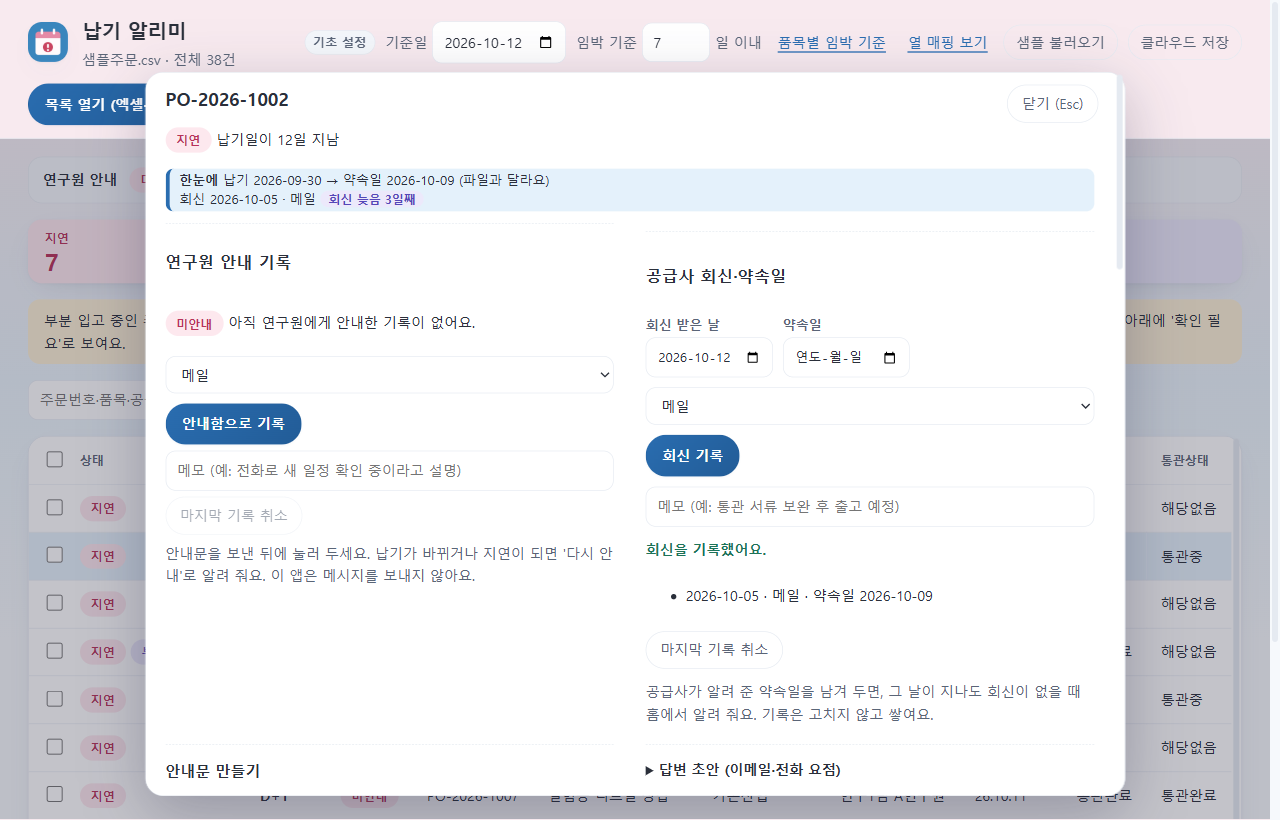
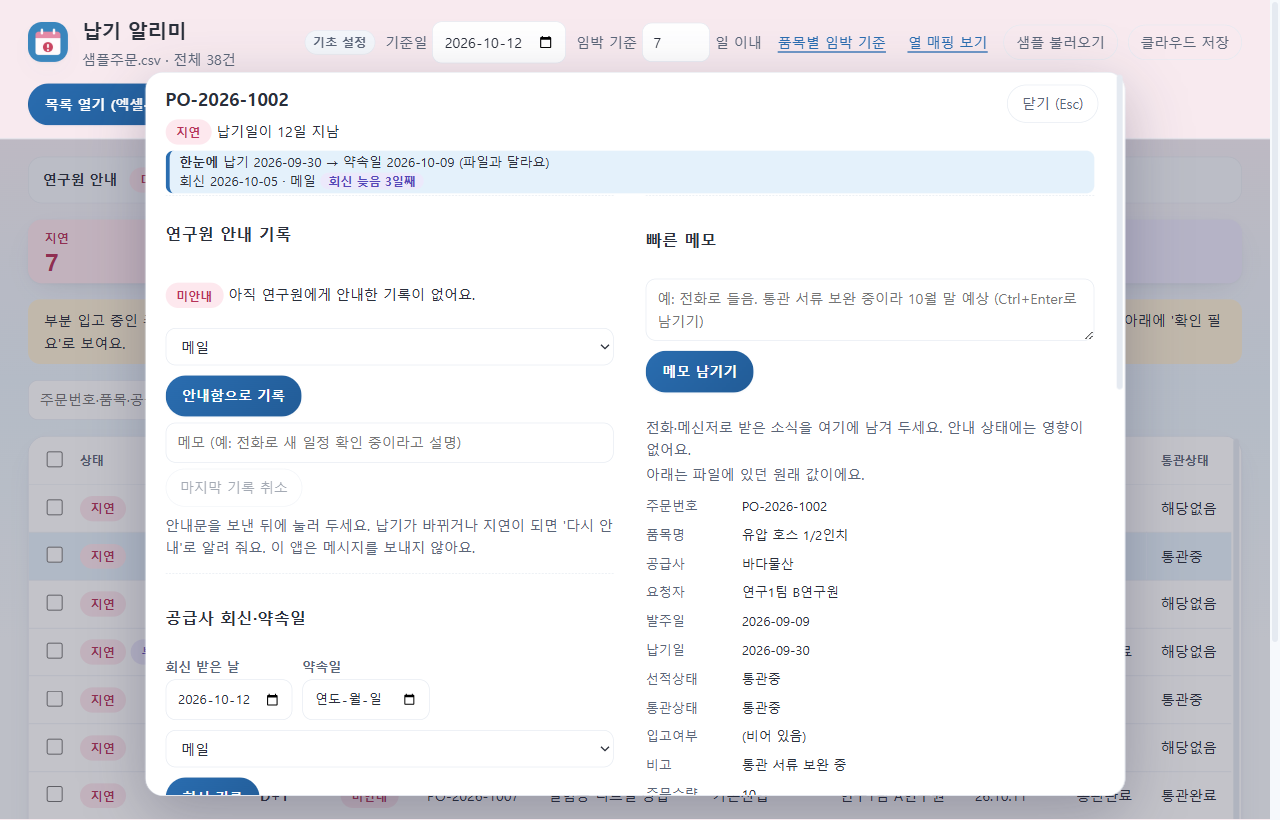
fix: 상세 창을 두 칸(할 일 / 기록·참고)으로 정리해 빈 구멍을 없앤다
처음 2열 배치는 칸이 가로로만 채워져 한쪽에 빈 공간과 줄 어긋남이 생겼다.
칸마다 위에서 아래로 쌓고, 버전을 0.7.2로 올린다(로컬 빌드만, 릴리스 전).

diff --git a/renderer/style.css b/renderer/style.css
@@ -315,8 +315,10 @@ th.sortable:hover { color: var(--accent); }
 .split:not(.has-detail) .detail { display: none; }
 .split.has-detail { grid-template-columns: minmax(0, 1fr); }
 .split.has-detail::after { content: ""; position: fixed; inset: 0; background: rgba(40, 40, 60, .28); pointer-events: none; z-index: 20; }
-.split.has-detail .detail { position: fixed; top: 72px; left: 50%; transform: translateX(-50%); width: min(980px, calc(100vw - 32px)); max-height: calc(100vh - 96px); z-index: 30; display: grid; grid-template-columns: minmax(0, 1fr) minmax(0, 1fr); gap: 4px 32px; align-content: start; box-shadow: 0 18px 60px rgba(30, 30, 60, .28); }
-.split.has-detail .detail > h2, .split.has-detail .detail > p, .split.has-detail .detail > .glance, .split.has-detail .detail > dl, .split.has-detail .detail > span { grid-column: 1 / -1; }
-.split.has-detail .detail > .informbox, .split.has-detail .detail > .replybox { align-self: start; }
+.split.has-detail .detail { position: fixed; top: 72px; left: 50%; transform: translateX(-50%); width: min(980px, calc(100vw - 32px)); max-height: calc(100vh - 96px); z-index: 30; box-shadow: 0 18px 60px rgba(30, 30, 60, .28); }
+.detailcols { display: block; }
+.split.has-detail .detailcols { display: grid; grid-template-columns: minmax(0, 1fr) minmax(0, 1fr); gap: 0 32px; align-items: start; }
+.split.has-detail .dcol { min-width: 0; display: flex; flex-direction: column; }
+.split.has-detail .dcol > :first-child { margin-top: 0; }
 .split.has-detail .detail .backtolist { position: absolute; top: 12px; right: 16px; display: block; }
-@media (max-width: 700px) { .split.has-detail .detail { grid-template-columns: minmax(0, 1fr); top: 8px; max-height: calc(100vh - 16px); } }
+@media (max-width: 700px) { .split.has-detail .detail { top: 8px; max-height: calc(100vh - 16px); } .split.has-detail .detailcols { grid-template-columns: minmax(0, 1fr); } }

diff --git a/renderer/renderer.js b/renderer/renderer.js
@@ -969,10 +969,14 @@ function renderDetail() {
     el("h2", {}, o["주문번호"]),
     el("p", {}, badge(o.status), " ", o.reason),
     S.edited[o["주문번호"]] ? el("p", { class: "edited" }, "이메일 기준으로 납기를 바꿨어요 (원래 값: " + S.edited[o["주문번호"]].from + ")") : el("span", {}),
-    glanceBox(o), informedBox(o), replyBox(o), noticeBox(o), draftBox(o), quickNoteBox(o),
-    el("p", { class: "sub" }, "아래는 파일에 있던 원래 값이에요."), dl,
-    o.status === "지연" ? causeBox(o) : el("span", {}),
-    ...(S.schedule[NO(o)] ? [schedBlock(o)] : []), substBox(o),
+    glanceBox(o),
+    // 두 칸으로 나눈다: 왼쪽은 지금 할 일(안내·회신·안내문·초안), 오른쪽은 기록과 참고(메모·원래 값·원인·대체품). 칸 안에서는 위에서 아래로 쌓여 빈 구멍이 생기지 않는다.
+    el("div", { class: "detailcols" },
+      el("div", { class: "dcol" }, informedBox(o), replyBox(o), noticeBox(o), draftBox(o)),
+      el("div", { class: "dcol" }, quickNoteBox(o),
+        el("p", { class: "sub" }, "아래는 파일에 있던 원래 값이에요."), dl,
+        o.status === "지연" ? causeBox(o) : el("span", {}),
+        ...(S.schedule[NO(o)] ? [schedBlock(o)] : []), substBox(o))),
     back);                                                          // 닫기는 글 순서 맨 끝(Tab 순서가 안내 기록보다 뒤), 화면에서는 오른쪽 위에 둔다
 }
 

diff --git a/CHANGELOG.md b/CHANGELOG.md
@@ -1,5 +1,9 @@
 # 변경 내용
 
+## 0.7.2 (2026-10-21, 로컬 빌드: 아직 릴리스하지 않음): 상세 창 칸 정리
+
+- **상세 창을 두 칸으로 정리했다.** 왼쪽은 지금 할 일(안내 기록·공급사 회신·안내문·답변 초안), 오른쪽은 기록과 참고(빠른 메모·파일 원래 값·지연 원인·대체품 확인). 처음 2열 배치는 칸이 가로로만 채워져 한쪽에 빈 구멍과 줄 어긋남이 생겼다. 칸마다 위에서 아래로 쌓아 해결했다. 시험: E2E S-05·S-06·S-11·S-12·S-13 통과.
+
 ## 미출시: 데모 데이터
 
 - **엑셀에서 안 열리던 문제 고침.** 데모 엑셀을 실제 엑셀(웹)에서 열면 "통합 문서를 열 수 없습니다"가 떴다. 우리 앱의 읽기 코드는 관대해서 시험은 통과했지만, 만드는 코드가 엑셀이 요구하는 정식 구조(문서 형식 선언, 관계 종류, 스타일, zip 수정 날짜)를 빠뜨렸던 것이 원인이다. 만드는 코드(`make-sample-supplier.js`의 `buildXlsx`)를 정식 구조로 고치고 데모 엑셀·`샘플주문.xlsx`·`샘플공급사/` 파일을 다시 만들었다. 구조 확인 시험을 추가했다(옛 파일은 이 시험에 걸린다). 설치 파일 v0.7.1에 들어 있는 `샘플주문.xlsx`는 옛 파일이라 다음 버전에서 바뀐다(앱 안 "샘플 불러오기"는 CSV를 써서 영향 없음).
